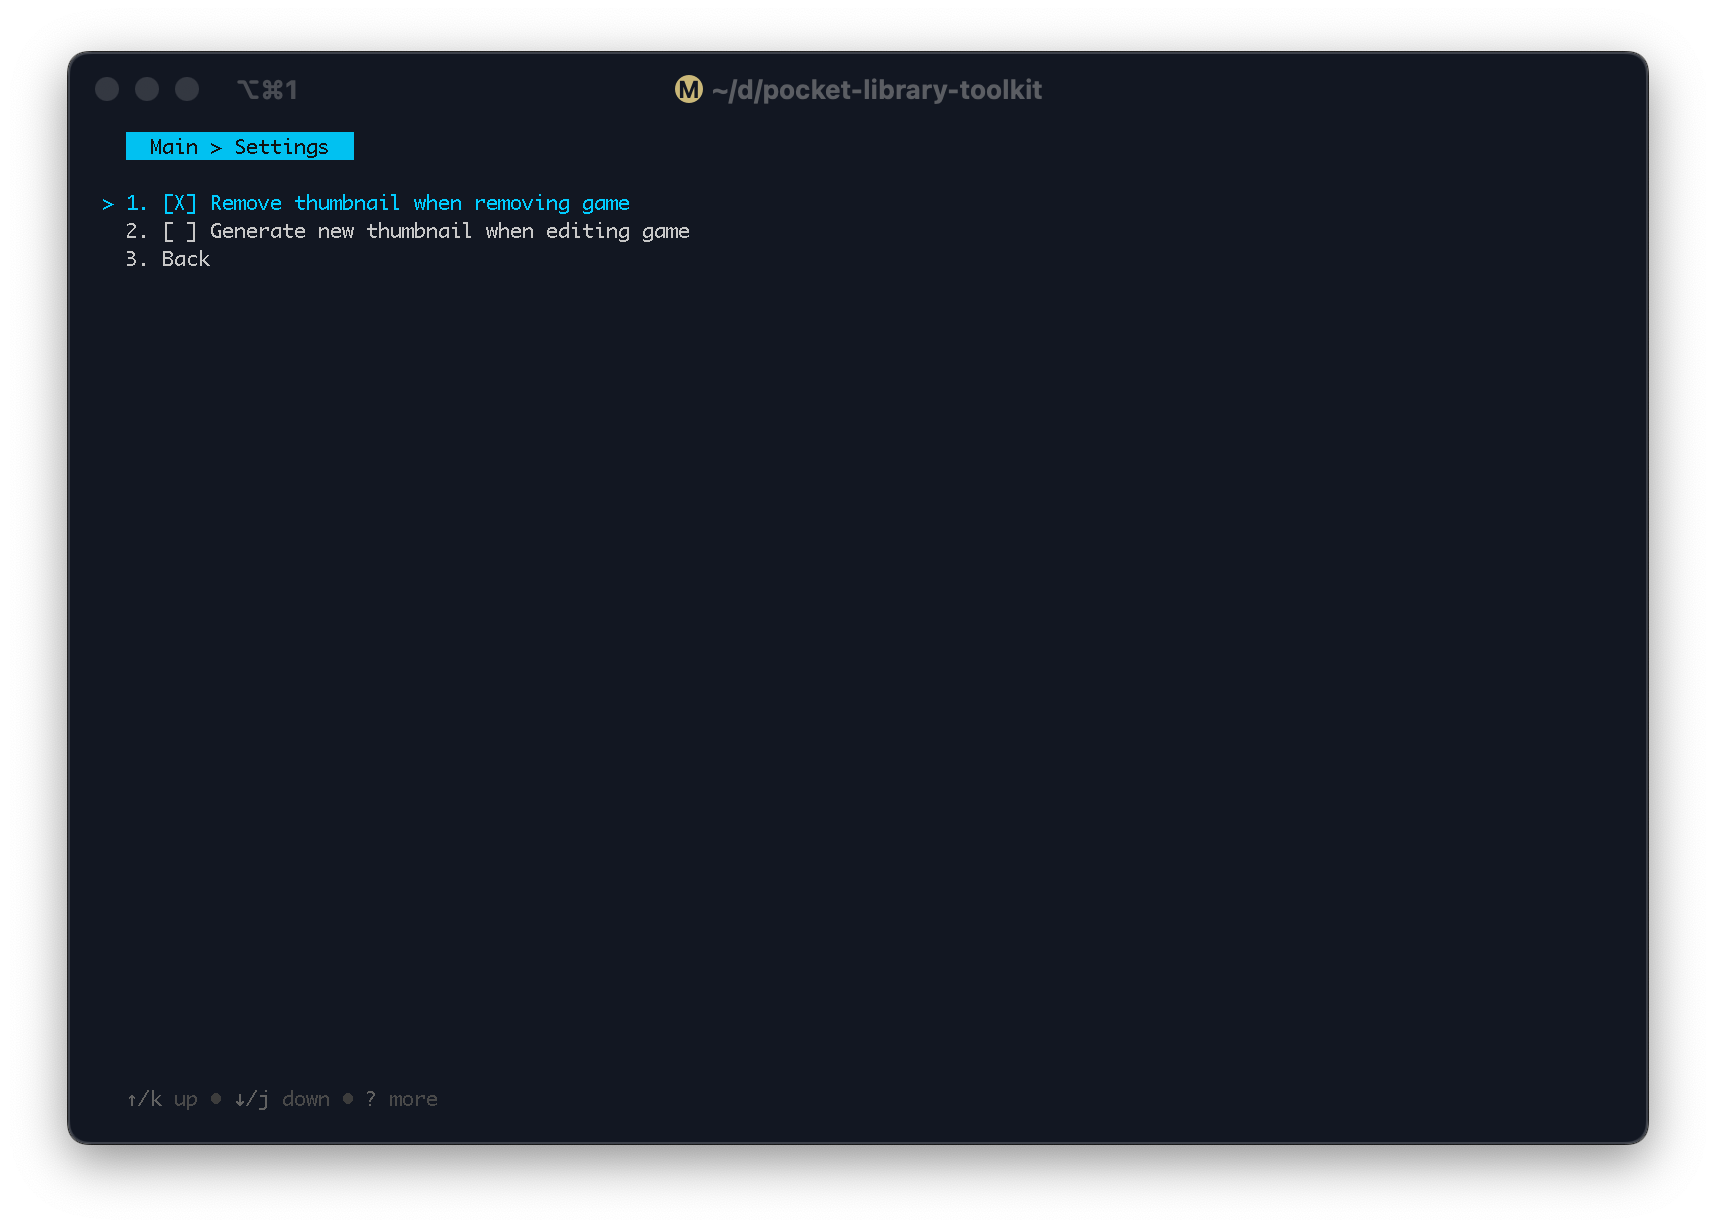
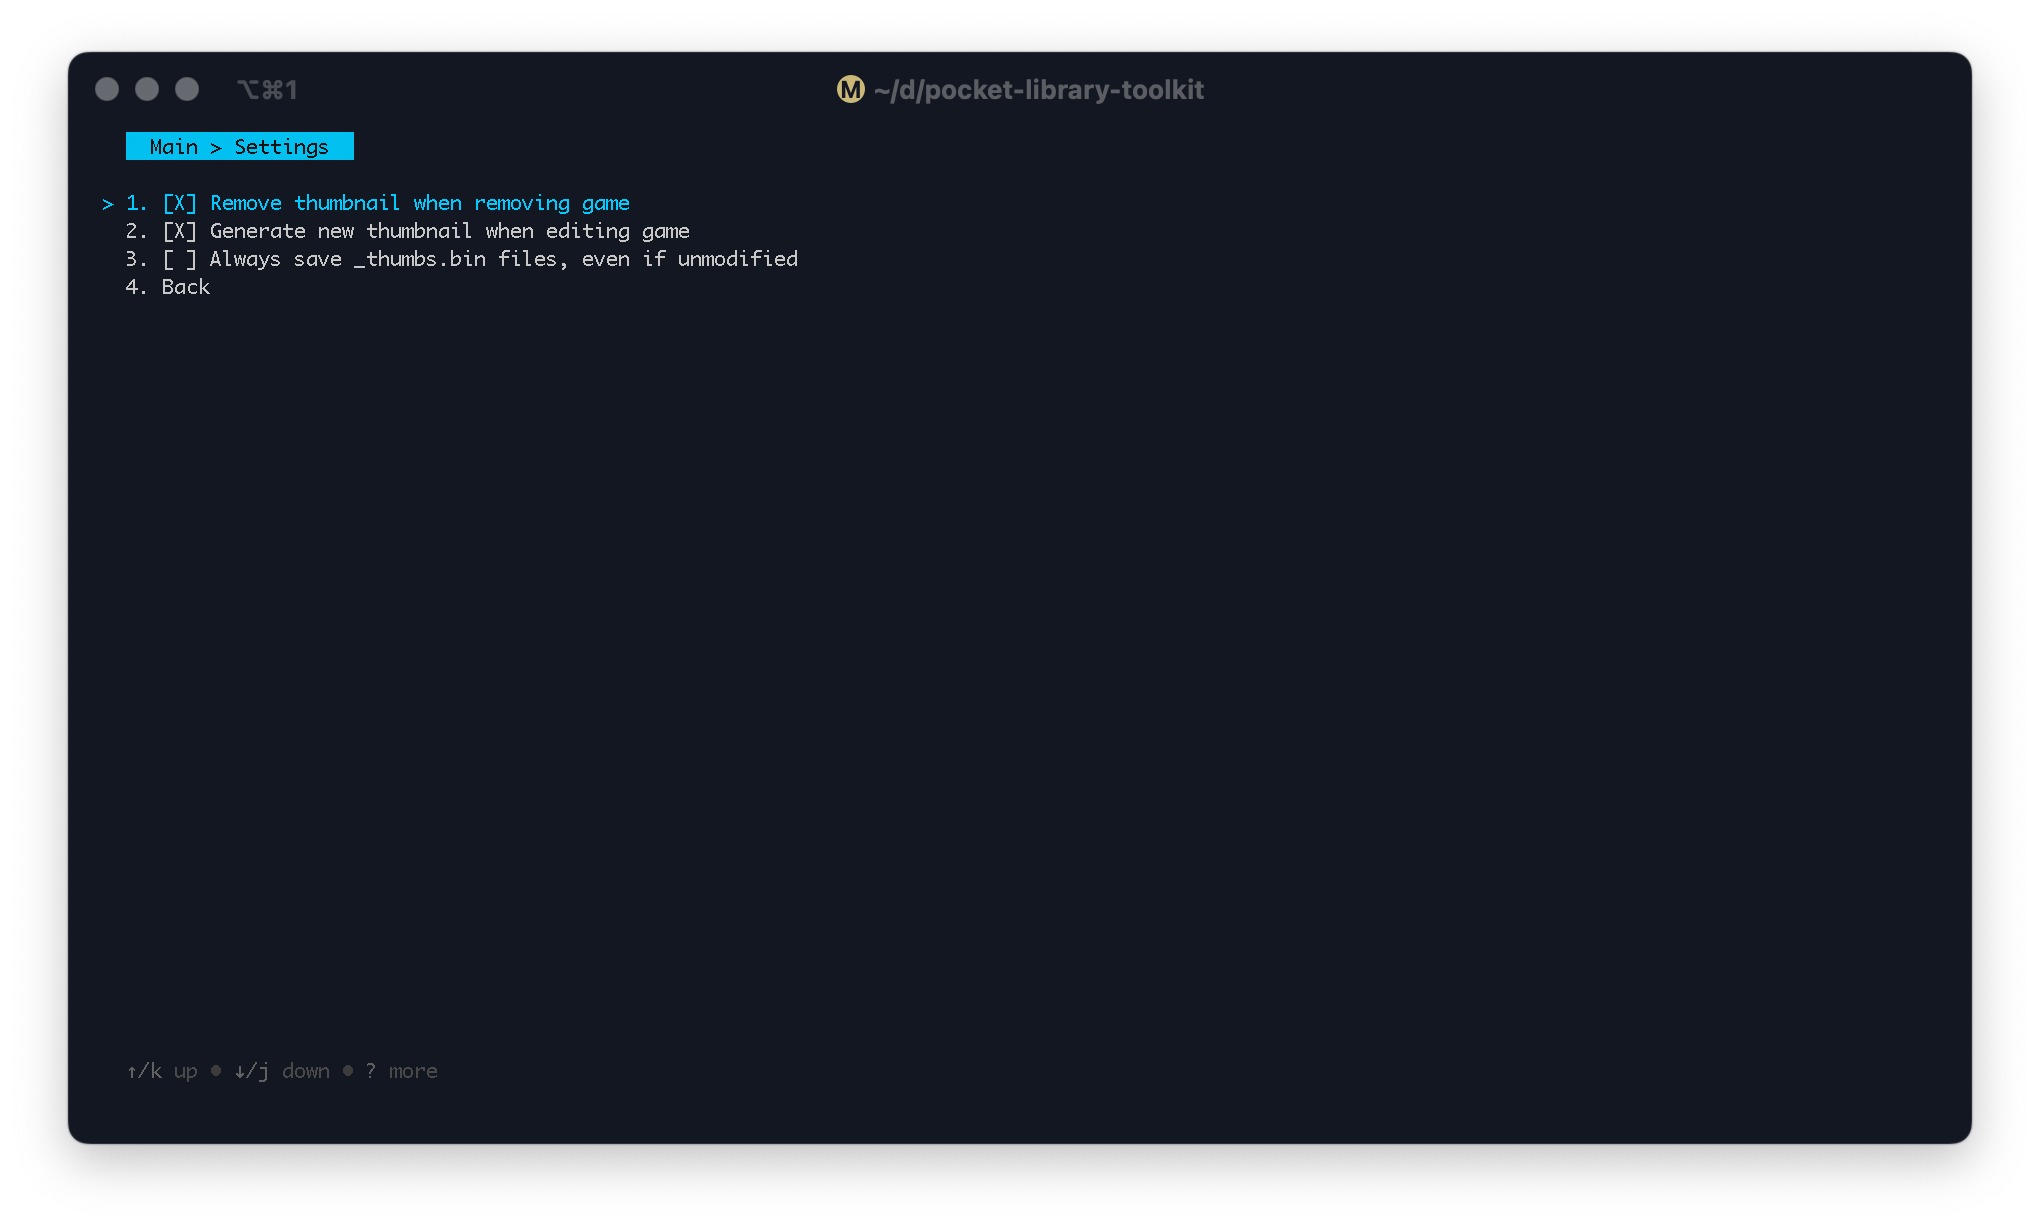
Update docs (#20)

diff --git a/docs/userguide.md b/docs/userguide.md
@@ -10,13 +10,14 @@ present in the System subdirectory & load them into memory.
 
 General keys:
 
+* Navigate with arrows
 * Select: `enter` or `space`
 * Go back a screen: `esc`
 * Force-quit without saving: `ctrl+C`
 
 ### Main Menu
 
-![main.png](images%2Fmain.png)
+![main.png](images/main.png)
 
 Use up & down arrows to navigate and enter or space to select.
 
@@ -31,19 +32,16 @@ From this menu, the following options are available:
 
 ### Library Menu
 
-![library.png](images%2Flibrary.png)
+![library.png](images/library.png)
 
 The library menu displays actions related to the game entries in the library.
 The following options are available:
 
 1. [**Edit entry**](): displays [a list](#the-game-list) of all the games in the user library. Selecting the entry will
-   displau the
-   details of it for editing.
+   display the details of it for editing.
 2. **Remove entry**: displays [a list](#the-game-list) of all the games in your library. Enter or space on an entry will
-   remove it
-   from
-   the library. If [_"remove thumbnail when removing game"_](#settings-menu) is set, then the corresponding image will
-   be removed from _thumbs.bin at the same time.
+   remove it from the library. If [_"remove thumbnail when removing game"_](#settings-menu) is set, then the
+   corresponding image will be removed from _thumbs.bin at the same time.
 3. **Fix played times**: attempts a simple adjustment of the times for every game in the library. This involves removing
    approximately 4660 hours from any game whose played time is greater than 4660 hours & addresses an occasional bug
    where game times are displayed inaccurately.
@@ -51,7 +49,7 @@ The following options are available:
 
 ### Thumbnails Menu
 
-![thumbs.png](images%2Fthumbs.png)
+![thumbs.png](images/thumbs.png)
 
 The thumbnails menu displays actions related to the thumbnails displayed when browsing the library in "Image" or "Grid"
 mode. It does not affect images displayed on the game info screen.
@@ -83,7 +81,7 @@ The following options are available:
 
 ### Settings Menu
 
-![config.png](images%2Fconfig.png)
+![config.png](images/config.png)
 
 Displays settings currently in use by the system. Ones marked with an `X` are active.
 
@@ -91,7 +89,11 @@ Displays settings currently in use by the system. Ones marked with an `X` are ac
    removing a game. If this value is not set, the thumbnails for any removed games will remain in the thumbnail caches.
 2. **Generate new thumbnail when editing game**: if set, editing a game will automatically generate a new thumbnail,
    overwriting any existing thumbnails. This is mostly useful for if you change the game's [CRC32 value.](#crc32)
-3. **Back**: return to the [main menu](#main-menu)
+3. **Always save _thumbs.bin files, even if unmodified**: by default, the application only saves new copies of the _
+   thumbs.bin files if it detects that the thumbnails have been modified during this session. If this setting is turned
+   on it will save new copies of the files regardless of changes. Leaving this off will improve save performance for
+   large libraries.
+4. **Back**: return to the [main menu](#main-menu)
 
 ### Save & Quit
 
@@ -104,9 +106,10 @@ In addition, this action saves the current user config to pocket-toolkit.json, l
 
 ### The Game List
 
-![list.png](images%2Flist.png)
+![list.png](images/list.png)
 
-Used by the edit, remove, and regenerate thumbnail options. Up & down navigate the list, while left & right switch pages.
+Used by the edit, remove, and regenerate thumbnail options. Up & down navigate the list, while left & right switch
+pages.
 
 Enter or space selects an entry and a filter is available by typing `/`.
 
@@ -114,7 +117,7 @@ To exit the list & return to previous menu, press `esc`
 
 ### Editing an Entry
 
-![edit.png](images%2Fedit.png)
+![edit.png](images/edit.png)
 
 Up & down or shift+tab & tab navigate.
 
@@ -124,7 +127,7 @@ Game name that will be displayed in the library. Cannot be blank.
 
 #### CRC32
 
-A hexadecimal 32 bit integer. This value is used to determine which thumbnail to display in the library & corresponds to
+A hexadecimal 32-bit integer. This value is used to determine which thumbnail to display in the library & corresponds to
 the CRC32 of the game ROM. If blank, `0x00000000` will be used.
 
 #### Date Added

diff --git a/docs/playtimes.md b/docs/playtimes.md
@@ -40,9 +40,8 @@ This value may represent a future time without issue.
 
 Playtime in seconds. Despite being 32 bits unsigned, the maximum value storable for a game is `0x03FFFFFF`. This is due
 to the first byte being both part of the time & an indicator of the entry's system. My assumption would be that this is
-to allow for the possibility of two games on different systems having a signature collision. But since the only place
-where this cross-system collision currently occurs involves Game Gear & Sega Master System, it's likely mostly
-theoretical.
+to allow for the possibility of two games on different systems having a signature collision. But since the only known
+occurrence of cross-system collision involves Game Gear & Sega Master System, it's likely mostly theoretical.
 
 To determine the actual playtime, subtract the following from the total based on the system the entry corresponds to:
 
@@ -57,5 +56,5 @@ To determine the actual playtime, subtract the following from the total based on
 * Lynx: `0x20000000`
 
 Setting this initial byte to a value beyond the appropriate system boundary (e.g. setting the first byte on a game
-marked as GB in list.bin to `04` or above) will cause the Pocket to briefly freeze when accessing the library entry,
-after which it will delete it from the library.
+marked as GBC in list.bin to `03` or below or `08` or above) will cause the Pocket to briefly freeze when accessing the library entry,
+after which it will delete the game from the library.
